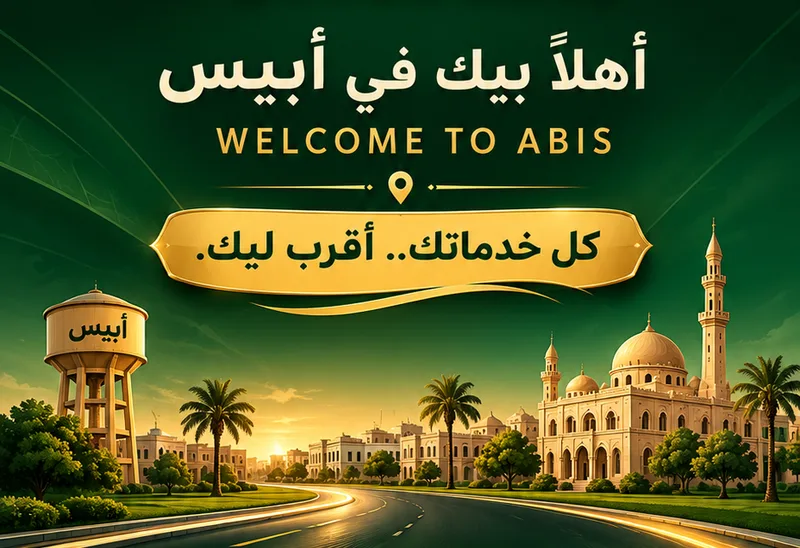
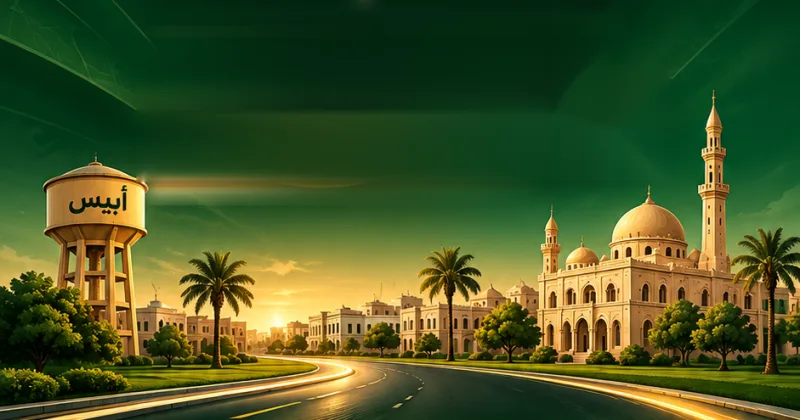
Coming-soon screen: all texts editable, text-free scene image
Claude-Session: https://claude.ai/code/session_01FfoA5BLdbc2XaEsMrMSMtQ

diff --git a/components/SoonScreen.tsx b/components/SoonScreen.tsx
@@ -66,17 +66,17 @@ export function SoonScreen({ cfg, navigation, preview, onClose }: { cfg: SoonCfg
           <Logo width={250} />
           <View style={{ flexDirection: 'row', alignItems: 'center', gap: 10, marginTop: 2 }}>
             <View style={{ width: 36, height: 1, backgroundColor: 'rgba(242,181,29,0.7)' }} />
-            <T w="black" size={13} color={GOLD} style={{ letterSpacing: 6 }}>OTLOBABIS</T>
+            <T w="black" size={13} color={GOLD} style={{ letterSpacing: 6 }}>{cfg.br}</T>
             <View style={{ width: 36, height: 1, backgroundColor: 'rgba(242,181,29,0.7)' }} />
           </View>
           <View style={{ flexDirection: 'row', alignItems: 'center', gap: 7, marginTop: 10, borderRadius: 20, borderWidth: 1, borderColor: 'rgba(242,181,29,0.7)', backgroundColor: 'rgba(0,0,0,0.35)', paddingHorizontal: 14, paddingVertical: 4 }}>
             <View style={{ width: 8, height: 8, borderRadius: 4, backgroundColor: '#FF5A4D' }} />
-            <T w="bold" size={12.5} color={GOLD}>قريبًا جدًا في منطقتك</T>
+            <T w="bold" size={12.5} color={GOLD}>{cfg.pl}</T>
           </View>
 
-          <View style={{ width: '100%', aspectRatio: 800 / 548, marginTop: 6 }}>
+          <View style={{ width: '100%', aspectRatio: 800 / 420, marginTop: 6 }}>
             <Image source={scene} style={{ width: '100%', height: '100%' }} contentFit="cover" />
-            <LinearGradient colors={['#073D16', 'rgba(7,61,22,0)']} style={{ position: 'absolute', left: 0, right: 0, top: 0, height: 44 }} pointerEvents="none" />
+            <LinearGradient colors={['#073D16', 'rgba(7,61,22,0)']} style={{ position: 'absolute', left: 0, right: 0, top: 0, height: 90 }} pointerEvents="none" />
             <LinearGradient colors={['rgba(1,34,12,0)', '#01220C']} style={{ position: 'absolute', left: 0, right: 0, bottom: 0, height: 56 }} pointerEvents="none" />
           </View>
 
@@ -85,14 +85,14 @@ export function SoonScreen({ cfg, navigation, preview, onClose }: { cfg: SoonCfg
             <T size={30}>📲</T>
             <T w="black" size={31} color="#fff" align="center" style={{ lineHeight: 42, marginTop: 2 }}>{l1}</T>
             {!!l2 && <T w="black" size={31} color={GOLD} align="center" style={{ lineHeight: 42 }}>{l2}</T>}
-            {cfg.at > 0 && <T w="bold" size={16} color="#E8F2EA" align="center" style={{ marginTop: 8, lineHeight: 26 }}>وهنبدأ الشغل <T w="black" size={16} color={GOLD}>{whenLabel(cfg.at, now)}</T></T>}
+            {cfg.at > 0 && <T w="bold" size={16} color="#E8F2EA" align="center" style={{ marginTop: 8, lineHeight: 26 }}>{cfg.wl} <T w="black" size={16} color={GOLD}>{whenLabel(cfg.at, now)}</T></T>}
           </View>
 
           {cfg.at > 0 && (
             <View style={{ width: '88%', marginTop: 16 }}>
               {cd.left > 0 ? (
                 <>
-                  <T w="bold" size={12.5} color={GOLD} align="center" style={{ marginBottom: 6 }}>⏳ باقي على الافتتاح</T>
+                  <T w="bold" size={12.5} color={GOLD} align="center" style={{ marginBottom: 6 }}>{cfg.cl}</T>
                   <View style={{ flexDirection: 'row', gap: 8 }}>
                     {cd.d > 0 && <Tile value={pad2(cd.d)} label="يوم" />}
                     <Tile value={pad2(cd.h)} label="ساعة" />
@@ -102,7 +102,7 @@ export function SoonScreen({ cfg, navigation, preview, onClose }: { cfg: SoonCfg
                 </>
               ) : (
                 <View style={{ borderRadius: 16, borderWidth: 1.5, borderColor: GOLD, backgroundColor: 'rgba(242,181,29,0.14)', paddingVertical: 12 }}>
-                  <T w="black" size={20} color={GOLD_LIGHT} align="center">🎉 بنفتح حالًا.. ثواني!</T>
+                  <T w="black" size={20} color={GOLD_LIGHT} align="center">{cfg.dn}</T>
                 </View>
               )}
             </View>
@@ -113,7 +113,7 @@ export function SoonScreen({ cfg, navigation, preview, onClose }: { cfg: SoonCfg
               <Pressable onPress={open} accessibilityRole="button">
                 <LinearGradient colors={['#FFD65A', '#E9A30A']} style={{ borderRadius: 32, paddingVertical: 16, flexDirection: 'row', alignItems: 'center', justifyContent: 'center', gap: 10, borderWidth: 2, borderColor: '#FFF1B8', shadowColor: GOLD, shadowOpacity: 0.55, shadowRadius: 18, shadowOffset: { width: 0, height: 6 }, elevation: 8 }}>
                   <Icon name="download" size={24} color="#00211A" />
-                  <T w="black" size={20} color="#00211A">حمّل التطبيق الآن</T>
+                  <T w="black" size={20} color="#00211A">{cfg.dl}</T>
                 </LinearGradient>
               </Pressable>
             </Animated.View>
@@ -122,7 +122,7 @@ export function SoonScreen({ cfg, navigation, preview, onClose }: { cfg: SoonCfg
           {cfg.sup && !!phone && (
             <Pressable onPress={() => openWhats(phone)} style={{ marginTop: 14, flexDirection: 'row', alignItems: 'center', gap: 6, padding: 8 }}>
               <Icon name="logo-whatsapp" size={18} color={GOLD} />
-              <T w="bold" size={14} color={GOLD}>تواصل معنا</T>
+              <T w="bold" size={14} color={GOLD}>{cfg.sp}</T>
             </Pressable>
           )}
 

diff --git a/components/SoonAdmin.tsx b/components/SoonAdmin.tsx
@@ -6,7 +6,7 @@ import { T, Icon, Card, Btn, Field, Toggle, toast, confirmDialog } from './ui';
 import { useStore, updateSettings } from '../lib/store';
 import { adImageUrl } from '../lib/api';
 import { SoonScreen } from './SoonScreen';
-import { SoonCfg, DEFAULT_SOON_MSG, buildSoon, parseSoon, parseWhen, dateText, clockText, whenLabel } from '../lib/soon';
+import { SoonCfg, SOON_TEXT_DEFAULTS, SOON_TEXT_KEYS, SoonTextKey, DEFAULT_SOON_MSG, buildSoon, parseSoon, parseWhen, dateText, clockText, whenLabel } from '../lib/soon';
 
 const DEFAULT_URL = 'https://otlob-abis-app.vercel.app/download.html?v=2';
 
@@ -16,6 +16,16 @@ function tomorrowAt15() {
   d.setHours(15, 0, 0, 0);
   return d.getTime();
 }
+
+const TXT_LABELS: Record<SoonTextKey, string> = {
+  pl: 'الشارة الصغيرة (فوق الصورة)',
+  br: 'السطر تحت الشعار',
+  wl: 'الكلمة قبل الموعد (قبل «بكرا الساعة…»)',
+  cl: 'عنوان العدّاد',
+  dn: 'الرسالة لما الوقت يخلص',
+  dl: 'كلمة زر التحميل',
+  sp: 'كلمة زر التواصل',
+};
 
 /** Owner: the "coming soon" opening screen (locks the app for everybody except the owner, with a countdown and a download button). */
 export function SoonAdminCard() {
@@ -30,6 +40,8 @@ export function SoonAdminCard() {
   const [sup, setSup] = useState(saved ? saved.sup : true);
   const [ad, setAd] = useState(saved?.ad || '');
   const [av, setAv] = useState(saved?.av || 0);
+  const [tx, setTx] = useState<Record<SoonTextKey, string>>(() => ({ ...SOON_TEXT_DEFAULTS, ...(saved ? Object.fromEntries(SOON_TEXT_KEYS.map((k) => [k, (saved as any)[k]])) : {}) } as any));
+  const [more, setMore] = useState(false);
   const [preview, setPreview] = useState(false);
   const [busy, setBusy] = useState(false);
   const ads = db.ads || [];
@@ -41,9 +53,9 @@ export function SoonAdminCard() {
     if (!msg.trim()) { toast('اكتب الرسالة الأساسية', 'err'); return null; }
     if (Number.isNaN(at)) { toast('اكتب اليوم بالشكل 2026-11-16 والساعة بالشكل 15:00', 'err'); return null; }
     if (url.trim() && !/^https:\/\/[^\s]+$/i.test(url.trim())) { toast('رابط التحميل لازم يبدأ بـ https://', 'err'); return null; }
-    return { m: msg.trim(), at, u: url.trim(), sup, ad, av };
+    return { m: msg.trim(), at, u: url.trim(), sup, ad, av, ...tx } as SoonCfg;
   };
-  const previewCfg = (): SoonCfg => ({ m: msg.trim() || DEFAULT_SOON_MSG, at: Number.isNaN(at) ? 0 : at, u: url.trim() || DEFAULT_URL, sup, ad, av });
+  const previewCfg = (): SoonCfg => ({ m: msg.trim() || DEFAULT_SOON_MSG, at: Number.isNaN(at) ? 0 : at, u: url.trim() || DEFAULT_URL, sup, ad, av, ...tx } as SoonCfg);
 
   const save = () => {
     const cfg = build();
@@ -93,6 +105,19 @@ export function SoonAdminCard() {
         <View style={{ flex: 1.3 }}><Field label="يوم الافتتاح (مثال 2026-11-16)" value={date} onChangeText={setDate} icon="calendar" keyboardType="numbers-and-punctuation" /></View>
       </View>
       {!Number.isNaN(at) && <T size={12.5} color={C.sub}>هتظهر للناس: {whenLabel(at)}</T>}
+      <Pressable onPress={() => setMore(!more)} style={{ flexDirection: 'row', alignItems: 'center', gap: 8, paddingVertical: 4 }}>
+        <Icon name={more ? 'chevron-up' : 'chevron-down'} size={18} color={C.dark} />
+        <T w="bold" size={14}>باقي نصوص الشاشة (اكتب مكانها أو غيّرها)</T>
+      </Pressable>
+      {more && (
+        <View style={{ gap: 10 }}>
+          {SOON_TEXT_KEYS.map((k) => (
+            <Field key={k} label={TXT_LABELS[k]} value={tx[k]} onChangeText={(v: string) => setTx({ ...tx, [k]: v })} maxLength={40} />
+          ))}
+          <Btn title="رجّع النصوص الأصلية" variant="outline" onPress={() => setTx({ ...SOON_TEXT_DEFAULTS } as any)} />
+        </View>
+      )}
+      <T size={11.5} color={tx ? C.sub : C.sub}>المساحة المستخدمة: {buildSoon({ m: msg, at: Number.isNaN(at) ? 0 : at, u: url, sup, ad, av, ...tx } as SoonCfg).length} من 480 حرف</T>
       <Field label="رابط زر التحميل (الموقع بس)" value={url} onChangeText={setUrl} icon="link" autoCapitalize="none" keyboardType="url" style={{ writingDirection: 'ltr', textAlign: 'left' } as any} />
 
       <T w="semi" size={13} color={C.dark3}>الصورة (المنظر في النص)</T>

diff --git a/lib/soon.ts b/lib/soon.ts
@@ -10,7 +10,29 @@ export type SoonCfg = {
   sup: boolean;   // show the support button
   ad: string;     // optional banner id to use instead of the built-in picture ('' = built-in)
   av: number;     // that banner's version
+  pl: string;     // pill text
+  br: string;     // small brand line under the logo
+  wl: string;     // text before the opening time
+  cl: string;     // countdown title
+  dn: string;     // text when the time has come
+  dl: string;     // download button text
+  sp: string;     // support button text
 };
+
+/** Every text the owner can replace, with its default (a text equal to the default is not stored). */
+export const SOON_TEXT_DEFAULTS = {
+  pl: 'قريبًا جدًا في منطقتك',
+  br: 'OTLOBABIS',
+  wl: 'وهنبدأ الشغل',
+  cl: '⏳ باقي على الافتتاح',
+  dn: '🎉 بنفتح حالًا.. ثواني!',
+  dl: 'حمّل التطبيق الآن',
+  sp: 'تواصل معنا',
+} as const;
+export type SoonTextKey = keyof typeof SOON_TEXT_DEFAULTS;
+export const SOON_TEXT_KEYS = Object.keys(SOON_TEXT_DEFAULTS) as SoonTextKey[];
+const TEXT_MAX = 40;
+const tx = (v: any, k: SoonTextKey) => (typeof v === 'string' && v.trim() ? v.trim().slice(0, TEXT_MAX) : SOON_TEXT_DEFAULTS[k]);
 
 const PREFIX = 'SOON1:';
 export const DEFAULT_SOON_MSG = 'حمّلوا التطبيق وجهّزوا حساباتكم';
@@ -27,6 +49,7 @@ export function parseSoon(text: string | undefined | null): SoonCfg | null {
       sup: j.sup !== false,
       ad: typeof j.ad === 'string' ? j.ad.slice(0, 12) : '',
       av: Number.isFinite(j.av) ? Number(j.av) : 0,
+      pl: tx(j.pl, 'pl'), br: tx(j.br, 'br'), wl: tx(j.wl, 'wl'), cl: tx(j.cl, 'cl'), dn: tx(j.dn, 'dn'), dl: tx(j.dl, 'dl'), sp: tx(j.sp, 'sp'),
     };
   } catch {
     return null;
@@ -35,7 +58,12 @@ export function parseSoon(text: string | undefined | null): SoonCfg | null {
 
 /** The text that is stored (the server keeps up to 500 characters). */
 export function buildSoon(c: SoonCfg): string {
-  return PREFIX + JSON.stringify({ m: c.m.trim().slice(0, 120), at: Math.round(c.at) || 0, u: c.u.trim().slice(0, 200), sup: !!c.sup, ad: c.ad || '', av: c.av || 0 });
+  const o: any = { m: c.m.trim().slice(0, 120), at: Math.round(c.at) || 0, u: c.u.trim().slice(0, 200), sup: !!c.sup, ad: c.ad || '', av: c.av || 0 };
+  for (const k of SOON_TEXT_KEYS) {
+    const v = String((c as any)[k] || '').trim().slice(0, TEXT_MAX);
+    if (v && v !== SOON_TEXT_DEFAULTS[k]) o[k] = v;
+  }
+  return PREFIX + JSON.stringify(o);
 }
 
 export function pad2(n: number) { return n < 10 ? `0${n}` : String(n); }
